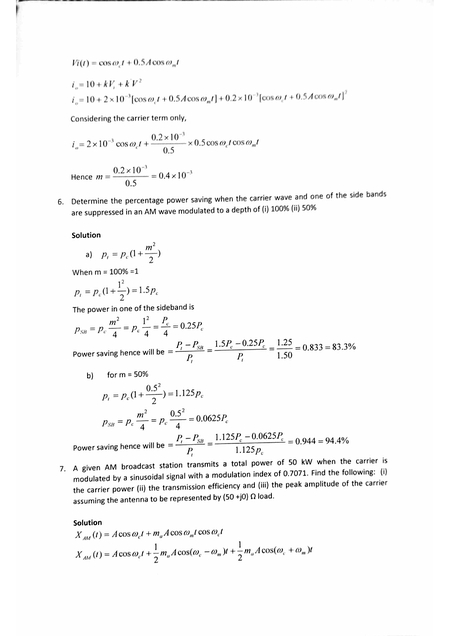
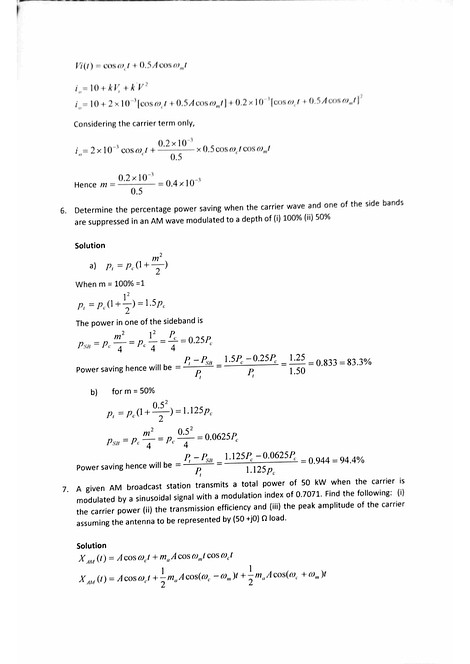
added the stuff

diff --git a/pdf-gen.py b/pdf-gen.py
@@ -20,12 +20,12 @@ def pdf_to_jpeg_with_enhancements(pdf_path, output_dir):
         enhanced_image = enhance_image(page)
 
         try:
-            enhanced_image.save(output_file, 'JPEG', optimize=True, quality=100, progressive=True)
+            enhanced_image.save(output_file, 'JPEG', optimize=True, quality=90, progressive=True)
             print(f'Saved: {output_file}')
         except Exception as e:
             print(f"Error saving image: {e}")
 
-def enhance_image(img, new_width=450):
+def enhance_image(img, new_width=470):
     img = img.convert('RGB')
 
     # Resize while maintaining aspect ratio
@@ -34,14 +34,14 @@ def enhance_image(img, new_width=450):
     img = img.resize((new_width, new_height), Image.LANCZOS)
 
     # Enhance
-    # img = ImageEnhance.Sharpness(img).enhance(1.2)
+    img = ImageEnhance.Sharpness(img).enhance(1.2)
     # img = ImageEnhance.Brightness(img).enhance(1.1)
     img = ImageEnhance.Contrast(img).enhance(1.2)
 
     return img
 
 if __name__ == '__main__':
-    pdf_path = "../books/400 Level/EEE 403 practice examples.pdf"
+    pdf_path = "../books/400 Level/EEE 404 Test (Omejeh).pdf"
     pdf_name = os.path.splitext(os.path.basename(pdf_path))[0].replace(" ", "_")  # Make it filename-safe
     image_output_dir = f"pages/{pdf_name}"
 
